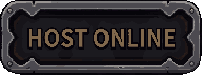
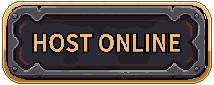
[skip multiplayer] fix: pre-game UI art consistency, dialog scrollbar flash, number legibility (#108)
* fix: pre-game UI art consistency, dialog scrollbar flash, player-number legibility

- .expansion-card: correct border-image-slice (was chopping the corner
  medallion in half) and background-clip: padding-box (was painting a flat
  color rectangle behind the border's own transparent margin) -- fixes
  Join/Realm/Lobby/Expansions panel borders.
- BoardShapeEditor restyled to the same parchment/.expansion-card theme as
  every other pre-game screen (was the last one still on dark-glass); swapped
  its canvas panel from a scrollbar to object-fit: contain so it never needs
  one.
- Local Play / Host Online buttons and the player-count tiles: base and
  selected-state art re-cut from the same source canvas (previously two
  independently generated images that drifted a few px apart despite looking
  identical) -- eliminates a "everything jumps slightly on hover/select"
  feel across the whole pre-game flow.
- Player-count numbers switched from Pixelify Sans to the existing
  room-code-font (already adopted project-wide for exactly this reason --
  digit ambiguity) plus bold.
- useModalDialog: re-focus with preventScroll after showModal(), fixing a
  page-level scrollbar flash during a dialog's entrance animation.
- victory-in keyframe: dropped its translateY offset -- the actual root
  cause of the scrollbar flash above (an already-centered panel briefly
  extending past the viewport during the animation).
[…]

diff --git a/catan-3d/src/components/hud/BoardShapeEditor.tsx b/catan-3d/src/components/hud/BoardShapeEditor.tsx
@@ -7,6 +7,7 @@ import {
   type CustomBoardShape,
 } from '../../data/customBoardShapes'
 import { useModalDialog } from '../../hooks/useModalDialog'
+import { INK, INK_MUTED, PARCHMENT_BUTTON, PARCHMENT_INPUT } from './parchmentTheme'
 
 // Generous enough for anything from a tight single island to a sprawling
 // peanut/archipelago-style shape, without the grid itself becoming
@@ -213,43 +214,43 @@ export function BoardShapeEditor({
     <dialog
       ref={dialogRef}
       aria-labelledby="board-shape-editor-heading"
-      className="pointer-events-auto m-auto flex max-h-[90vh] w-[960px] flex-col rounded-2xl border border-glass-border bg-glass p-6 shadow-[0_20px_60px_rgba(0,0,0,0.5)] backdrop:bg-board-navy/90 backdrop:backdrop-blur-md backdrop-blur-xl"
+      className="expansion-card pointer-events-auto m-auto flex max-h-[90vh] w-[min(960px,95vw)] flex-col p-6 shadow-[0_20px_60px_rgba(0,0,0,0.5)] backdrop:bg-board-navy/80 backdrop:backdrop-blur-md"
     >
-      <h2 id="board-shape-editor-heading" className="font-display text-xl text-white">
+      <h2 id="board-shape-editor-heading" className={`font-display text-xl ${INK}`}>
         {mode === 'preview' ? 'Preview Board Shape' : 'Draw a Board Shape'}
       </h2>
-      <p className="mt-1 font-body text-xs text-white/60">
+      <p className={`mt-1 font-body text-xs ${INK_MUTED}`}>
         {mode === 'preview'
           ? 'This is a saved shape. Use it as-is, or Edit to change it.'
           : 'Click hexes to add them to the shape. Paint a biome onto a tile to fix it — leave tiles unpainted to draw randomly from the standard six. Sea and Gold Field never appear by chance; paint them deliberately. Numbers always shuffle fresh every game.'}
       </p>
 
       <div className="mt-4 flex min-h-0 flex-1 gap-4">
-        <div className="flex w-48 shrink-0 flex-col gap-2 overflow-y-auto rounded-xl border border-glass-border bg-board-navy/60 p-2">
+        <div className="flex w-48 shrink-0 flex-col gap-2 overflow-y-auto rounded-lg border border-[#8a6d47]/30 bg-[#f1e0be]/30 p-2">
           <button
             type="button"
             onClick={resetToBlank}
-            className="rounded-lg border border-glass-border bg-white/5 py-2 font-body text-[11px] tracking-[0.1em] text-gold uppercase transition-colors hover:border-gold/50"
+            className={`${PARCHMENT_BUTTON} py-2 font-body text-[11px] tracking-[0.1em] uppercase`}
           >
             + New Map
           </button>
           {savedShapes.length === 0 && (
-            <p className="mt-2 px-1 font-body text-[11px] text-white/40">No saved maps yet.</p>
+            <p className={`mt-2 px-1 font-body text-[11px] ${INK_MUTED}`}>No saved maps yet.</p>
           )}
           {savedShapes.map((shape) => (
             <div
               key={shape.id}
-              className={`flex items-center justify-between gap-1 rounded-lg border px-2 py-1.5 ${
-                editingId === shape.id ? 'border-gold/60 bg-gold/10' : 'border-glass-border bg-white/5'
+              className={`flex items-center justify-between gap-1 rounded-lg border px-2 py-1.5 transition-colors ${
+                editingId === shape.id ? 'border-[#7a3b1e] bg-[#7a3b1e]/10' : 'border-[#8a6d47]/30 hover:border-[#8a6d47]/60'
               }`}
             >
               <button
                 type="button"
                 onClick={() => loadShapeIntoCanvas(shape)}
-                className="min-w-0 flex-1 truncate text-left font-body text-xs text-white hover:text-gold"
+                className={`min-w-0 flex-1 truncate text-left font-body text-xs ${INK} hover:text-[#7a3b1e]`}
               >
                 {shape.name}
-                <span className="ml-1 text-white/40">({shape.cells.length})</span>
+                <span className={`ml-1 ${INK_MUTED}`}>({shape.cells.length})</span>
               </button>
               {pendingDeleteId === shape.id ? (
                 <button
@@ -268,7 +269,7 @@ export function BoardShapeEditor({
                   type="button"
                   onClick={() => setPendingDeleteId(shape.id)}
                   aria-label={`Delete ${shape.name}`}
-                  className="shrink-0 font-body text-xs text-white/40 hover:text-player-1"
+                  className={`shrink-0 font-body text-xs ${INK_MUTED} hover:text-player-1`}
                 >
                   ✕
                 </button>
@@ -278,8 +279,12 @@ export function BoardShapeEditor({
         </div>
 
         <div className="flex min-w-0 flex-1 flex-col">
-          <div className="flex-1 overflow-auto rounded-xl border border-glass-border bg-board-navy/60 p-3">
-            <svg viewBox="-320 -280 640 560" className="mx-auto block h-auto w-full max-w-[680px]">
+          <div className="flex-1 overflow-hidden rounded-lg border border-[#8a6d47]/30 bg-[#f1e0be]/30 p-3">
+            <svg
+              viewBox="-320 -280 640 560"
+              preserveAspectRatio="xMidYMid meet"
+              className="mx-auto block h-full w-full max-w-[680px] object-contain"
+            >
               {COL_RANGE.flatMap((col) =>
                 ROW_RANGE.map((row) => {
                   const cell = { col, row }
@@ -294,9 +299,9 @@ export function BoardShapeEditor({
                       key={key}
                       points={hexPolygonPoints(cx, cy, HEX_PIXEL_RADIUS - 1.5)}
                       onClick={() => handleTileClick(cell)}
-                      className={`stroke-white/15 transition-colors ${mode === 'editing' ? 'cursor-pointer' : 'cursor-default'} ${
+                      className={`stroke-[#8a6d47]/30 transition-colors ${mode === 'editing' ? 'cursor-pointer' : 'cursor-default'} ${
                         !isSelected
-                          ? 'fill-white/5 hover:fill-white/15'
+                          ? 'fill-[#8a6d47]/5 hover:fill-[#8a6d47]/15'
                           : paintedBiome
                             ? ''
                             : 'fill-gold/80 hover:fill-gold'
@@ -310,7 +315,7 @@ export function BoardShapeEditor({
             </svg>
           </div>
 
-          <div className="mt-3 flex items-center justify-between font-body text-[11px] text-white/50">
+          <div className={`mt-3 flex items-center justify-between font-body text-[11px] ${INK_MUTED}`}>
             <span>{selected.size} tiles selected</span>
             {selected.size > 0 && !connected && (
               <span className="text-player-1">Not all connected — every tile needs a neighbor in the shape.</span>
@@ -319,7 +324,7 @@ export function BoardShapeEditor({
 
           {mode === 'editing' && (
             <div className="mt-3 flex flex-wrap items-center gap-2">
-              <span className="font-body text-[11px] tracking-[0.1em] text-white/50 uppercase">Paint biome</span>
+              <span className={`font-body text-[11px] tracking-[0.1em] uppercase ${INK_MUTED}`}>Paint biome</span>
               {BIOME_PALETTE.map((biome) => (
                 <button
                   key={biome}
@@ -329,7 +334,7 @@ export function BoardShapeEditor({
                   aria-pressed={activeBrush === biome}
                   title={biome}
                   className={`h-6 w-6 rounded-full border-2 transition-transform ${
-                    activeBrush === biome ? 'scale-110 border-white' : 'border-white/30 hover:border-white/60'
+                    activeBrush === biome ? 'scale-110 border-[#7a3b1e]' : 'border-[#8a6d47]/40 hover:border-[#8a6d47]/70'
                   }`}
                   style={{ backgroundColor: BIOME_COLORS[biome] }}
                 />
@@ -341,8 +346,8 @@ export function BoardShapeEditor({
                 aria-pressed={activeBrush === 'erase'}
                 className={`rounded-lg border px-2 py-1 font-body text-[10px] tracking-[0.05em] uppercase transition-colors ${
                   activeBrush === 'erase'
-                    ? 'border-gold text-gold'
-                    : 'border-glass-border text-white/50 hover:text-white'
+                    ? 'border-[#7a3b1e] text-[#7a3b1e]'
+                    : `border-[#8a6d47]/40 ${INK_MUTED} hover:text-[#2b1810]`
                 }`}
               >
                 Erase
@@ -359,7 +364,7 @@ export function BoardShapeEditor({
                 placeholder="Name this shape"
                 aria-label="Shape name"
                 maxLength={30}
-                className="min-w-0 flex-1 rounded-lg border border-glass-border bg-white/5 px-3 py-2 font-body text-sm text-white placeholder:text-white/30 focus:border-gold/60 focus:outline-none"
+                className={`min-w-0 flex-1 ${PARCHMENT_INPUT}`}
               />
               <button
                 type="button"
@@ -367,7 +372,7 @@ export function BoardShapeEditor({
                   setSelected(new Set())
                   setPaintedBiomes(new Map())
                 }}
-                className="rounded-lg border border-glass-border bg-white/5 px-3 py-2 font-body text-[11px] tracking-[0.1em] text-white/60 uppercase transition-colors hover:border-player-1/50 hover:text-player-1"
+                className={`${PARCHMENT_BUTTON} px-3 py-2 font-body text-[11px] tracking-[0.1em] uppercase hover:text-player-1`}
               >
                 Clear
               </button>
@@ -378,7 +383,7 @@ export function BoardShapeEditor({
             <button
               type="button"
               onClick={onClose}
-              className="flex-1 rounded-lg border border-glass-border bg-white/5 py-2.5 font-display text-sm font-semibold text-white transition-colors hover:border-white/30"
+              className={`${PARCHMENT_BUTTON} flex-1 py-2.5 font-display text-sm font-semibold uppercase`}
             >
               Cancel
             </button>
@@ -387,14 +392,14 @@ export function BoardShapeEditor({
                 <button
                   type="button"
                   onClick={() => setMode('editing')}
-                  className="flex-1 rounded-lg border border-gold/50 bg-white/5 py-2.5 font-display text-sm font-semibold text-gold transition-colors hover:border-gold"
+                  className={`${PARCHMENT_BUTTON} flex-1 py-2.5 font-display text-sm font-semibold uppercase`}
                 >
                   Edit
                 </button>
                 <button
                   type="button"
                   onClick={() => onSave(buildCurrentShape())}
-                  className="flex-1 rounded-lg bg-gradient-to-b from-gold to-gold-deep py-2.5 font-display text-sm font-semibold text-board-navy transition-transform hover:scale-[1.02] active:scale-95"
+                  className={`${PARCHMENT_BUTTON} flex-1 py-2.5 font-display text-sm font-semibold uppercase`}
                 >
                   Use This Map
                 </button>
@@ -404,7 +409,7 @@ export function BoardShapeEditor({
                 type="button"
                 disabled={!canSave}
                 onClick={handleSaveShape}
-                className="flex-1 rounded-lg bg-gradient-to-b from-gold to-gold-deep py-2.5 font-display text-sm font-semibold text-board-navy transition-transform hover:scale-[1.02] active:scale-95 disabled:cursor-not-allowed disabled:opacity-40 disabled:hover:scale-100"
+                className={`${PARCHMENT_BUTTON} flex-1 py-2.5 font-display text-sm font-semibold uppercase disabled:cursor-not-allowed disabled:opacity-50`}
               >
                 Save Shape
               </button>

diff --git a/catan-3d/src/index.css b/catan-3d/src/index.css
@@ -126,15 +126,17 @@
 }
 
 /* Player-count tiles — blank (no baked-in number; 1-6 render as real text
-   on top, one shared pair of images). is-selected's canvas (67x70) isn't
-   proportioned the same as the base tile's (64x60), so background-size:
-   contain — which fits each image's WHOLE canvas into the box — rendered
-   the selected tile's core shape visibly smaller than the base tile's
-   (same bug as the buttons, index.css .btn-local-play etc.). Fixed the
-   same way: 100% 100% (stretch) makes both states fill the identical box
-   regardless of their own canvas proportions. */
+   on top, one shared pair of images). Originally two independently
+   generated images (67x70 vs 64x60) that looked the same at a glance but
+   visibly mismatched on screen; background-size: 100% 100% (stretch, same
+   fix as .btn-local-play etc.) covers any future mismatch regardless of
+   source proportions, but as of 2026-09-02 both states are cut from the
+   same 64x64 source (one with a selection border added in the same margin
+   the other leaves empty), so they're pixel-aligned without it. aspect-
+   ratio matches that shared 64x64 canvas so the box itself doesn't add its
+   own stretch on top. */
 .player-tile {
-  aspect-ratio: 64 / 60;
+  aspect-ratio: 1 / 1;
   background-image: url('./assets/menu/player-tile.png');
   background-size: 100% 100%;
   background-position: center;
@@ -201,10 +203,7 @@
 }
 
 /* Hand-made expansion/house-rules card frame (user, Aseprite, 2026-08-28) —
-   wood border + gold corner medallions around aged parchment. 15px
-   transparent margin before the border starts, ~9px of actual wood border
-   after that (pixel-scanned) — slice:24 clears both, landing right at the
-   cream interior.
+   wood border + gold corner medallions around aged parchment.
    No `fill` on border-image-slice (2026-09-01) — the source art's interior
    is a baked, non-tileable aged-parchment texture with irregular stain
    blotches, not a seamless pattern. border-image-repeat: stretch was
@@ -215,15 +214,48 @@
    background-color below (the same #f1e0be page tone every parchment
    screen in this family already samples, see parchmentTheme.ts) fills it
    instead — same color, no stretch-prone texture to distort regardless of
-   box proportions. */
+   box proportions.
+   border-image-slice: 48, not 24 (2026-09-02, real fix for a "square image
+   pasted on the border" corner artifact — confirmed by cropping the raw
+   PNG at both slice depths, not by guessing). The gold corner medallion is
+   baked into the source at roughly 45-48px per side; the plain straight
+   edge (away from corners) is a much thinner ~9px wood line with a 15px
+   transparent margin above it. A single border-image-slice value carves
+   the SAME depth for both the corner square and the edge strip, so the
+   old value (24, sized for the thin edge) sliced straight through the
+   middle of the medallion — the corner box got half a medallion with a
+   jagged cut edge, and the other half spilled into the edge strip, where
+   border-image-repeat: stretch smeared it sideways along the border's
+   length. 48 is the smallest slice that clears the whole medallion in one
+   piece; the extra ~34px it now also carries on the plain edges is flat
+   parchment-interior color in the source art, indistinguishable from the
+   background-color fill already painted behind it.
+   border-image-width: 24px, not 16 — needs to be an exact integer divisor
+   of the 48px slice (48/24 = 2x) so image-rendering: pixelated downscales
+   the medallion cleanly; a non-integer ratio (48/16 = 3x would've been
+   fine too, but the OLD 24/16 = 1.5x was not) is what produced the uneven,
+   chunky resampling on top of the half-medallion cut. border-width matches
+   border-image-width so the rendered art and the box's own layout
+   thickness agree — mismatching them stretches or crops the image inside
+   its own border band. */
 .expansion-card {
   border-style: solid;
-  border-width: 16px;
+  border-width: 24px;
   border-image-source: url('./assets/menu/expansion-panel.png');
-  border-image-slice: 24;
-  border-image-width: 16px;
+  border-image-slice: 48;
+  border-image-width: 24px;
   border-image-repeat: stretch;
   background-color: #f1e0be;
+  /* background-clip defaults to border-box, which paints this flat fill
+     underneath the WHOLE border area — including the ~15px fully
+     transparent margin baked into expansion-panel.png outside the wood
+     line. That showed up as a solid rectangle sitting behind/around the
+     ornate border, mismatched against whatever mottled page art is
+     actually behind this card (confirmed by simulating both clip modes
+     against a non-flat backdrop before touching this). padding-box confines
+     the fill to inside the visible border, letting the real page show
+     through the art's own transparent margin instead. */
+  background-clip: padding-box;
   image-rendering: pixelated;
 }
 
@@ -293,14 +325,22 @@
   }
 }
 
+/* No translateY here (2026-09-02, was translateY(24px)) -- panels using
+   this (every .expansion-card) are already vertically centered via the
+   dialog's own margin:auto, so starting 24px BELOW that pushed the
+   panel's bottom edge past the viewport for the animation's duration on
+   any panel with little vertical slack to spare -- a page-level scrollbar
+   flashed for exactly as long as the animation ran, then vanished once it
+   reached translateY(0). scale-only keeps the same "grows into place"
+   feel without any directional displacement that could push it offscreen. */
 @keyframes victory-in {
   from {
     opacity: 0;
-    transform: translateY(24px) scale(0.94);
+    transform: scale(0.94);
   }
   to {
     opacity: 1;
-    transform: translateY(0) scale(1);
+    transform: scale(1);
   }
 }
 
@@ -368,14 +408,17 @@
 
 :root {
   color-scheme: dark;
+  overflow: hidden;
 }
 
 #root {
   width: 100%;
   height: 100svh;
+  overflow: hidden;
 }
 
 body {
   margin: 0;
+  overflow: hidden;
   font-family: var(--font-body);
 }

diff --git a/catan-3d/src/components/hud/GameSetupMenu.tsx b/catan-3d/src/components/hud/GameSetupMenu.tsx
@@ -318,7 +318,7 @@ export function GameSetupMenu({
               aria-pressed={playerCount === n}
               aria-label={`${n} player${n === 1 ? '' : 's'}`}
               style={{ fontSize: LAYOUT.playersNumberFontSizePx }}
-              className={`player-tile flex items-center justify-center font-display text-[#f1e0be] focus-visible:outline-2 focus-visible:outline-offset-2 focus-visible:outline-gold ${
+              className={`player-tile room-code-font flex items-center justify-center font-bold text-[#f1e0be] focus-visible:outline-2 focus-visible:outline-offset-2 focus-visible:outline-gold ${
                 playerCount === n ? 'is-selected' : ''
               }`}
             >
@@ -335,7 +335,7 @@ export function GameSetupMenu({
               aria-pressed={playerCount === n}
               aria-label={`${n} player${n === 1 ? '' : 's'}`}
               style={{ fontSize: LAYOUT.playersNumberFontSizePx }}
-              className={`player-tile flex items-center justify-center font-display text-[#f1e0be] focus-visible:outline-2 focus-visible:outline-offset-2 focus-visible:outline-gold ${
+              className={`player-tile room-code-font flex items-center justify-center font-bold text-[#f1e0be] focus-visible:outline-2 focus-visible:outline-offset-2 focus-visible:outline-gold ${
                 playerCount === n ? 'is-selected' : ''
               }`}
             >

diff --git a/catan-3d/src/hooks/useModalDialog.ts b/catan-3d/src/hooks/useModalDialog.ts
@@ -80,6 +80,19 @@ export function useModalDialog<T extends HTMLDialogElement>(_onClose?: () => voi
     if (!node) return
 
     node.showModal()
+    // showModal()'s own auto-focus step (spec: focus the first focusable
+    // descendant, or the dialog itself) doesn't pass preventScroll, so the
+    // browser can try to scroll that target into view -- visible as a
+    // page-level scrollbar flashing for the length of the entrance
+    // animation, since the dialog is briefly offset by its own
+    // transform (e.g. animate-victory-in's translateY) before settling.
+    // Re-focusing whatever showModal() just focused, synchronously and
+    // with preventScroll set, overrides that scroll attempt without
+    // changing what ends up focused (unlike focusing `node` itself, which
+    // would steal focus away from the auto-focused field).
+    if (document.activeElement instanceof HTMLElement) {
+      document.activeElement.focus({ preventScroll: true })
+    }
 
     const handleCancel = (event: Event) => event.preventDefault()
     node.addEventListener('cancel', handleCancel)
